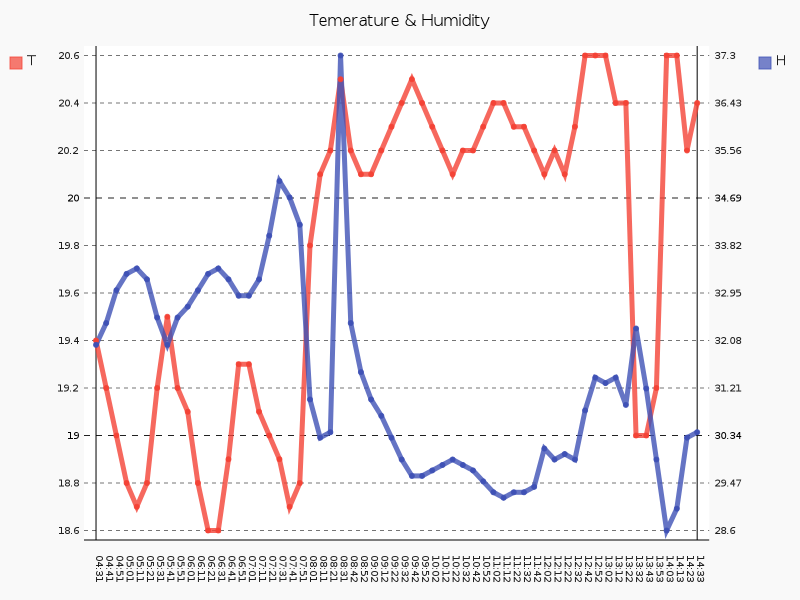
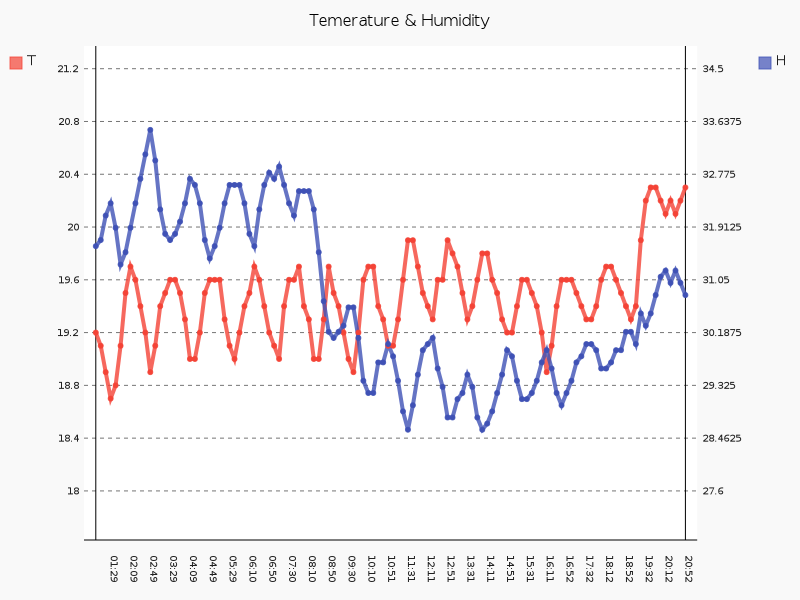
A bit nicer look of graphs

diff --git a/Graph.py b/Graph.py
@@ -17,21 +17,27 @@ def get_data(field_num, field_name, results):
 
         labs = []
         vals = []
+        labels_num = 30
+        labels_skip = results // labels_num
+        count = 0
         for i in j['feeds']:
+            count += 1
+            if count % labels_skip == 0:
                 labs.append(datetime.datetime.strptime(
                     i['created_at'], 
-                    '%Y-%m-%dT%H:%M:%SZ'
+                    '%Y-%m-%dT%H:%M:%S+03:00'
                     ).strftime('%H:%M'))
-                vals.append(float(i[field_name]))
-        del labs[::2]
+            else: 
+                labs.append('')
+            vals.append(round(float(i[field_name]), 1))
         return labs, vals
 
 
 def get_pic(title, labels, data, pic_name):
         line_chart = pygal.Line(
+            range = (min(data)-1, max(data)+1),
             x_label_rotation=90, 
-            #interpolate='lagrange',
-            stroke_style={'width': 5} #, 'linecap': 'round', 'linejoin': 'round'}
+            stroke_style={'width': 4}
             )
         line_chart.title = title
         line_chart.x_labels = labels
@@ -40,20 +46,20 @@ def get_pic(title, labels, data, pic_name):
 
 
 
-def get_temp(usr_id, values_num = 30):
+def get_temp(usr_id, values_num = 60):
     l, v = get_data(1, 'field1', values_num)
     pic_name = "t-%s.png" % usr_id
     full_name = os.path.join(GR_PATH, pic_name)
     get_pic('Temperature', l, v, full_name)
     return full_name
 
-def get_press(usr_id, values_num = 100):
+def get_press(usr_id, values_num = 240):
     l, v = get_data(2, 'field2', values_num)
     pic_name = "img//p_%s.png" % usr_id
     get_pic('Pressure', l, v, pic_name)
     return pic_name
 
-def get_humid(usr_id, values_num = 30):
+def get_humid(usr_id, values_num = 60):
     l, v = get_data(3, 'field3', values_num)
     pic_name = "img//h_%s.png" % usr_id
     get_pic('Humidity', l, v, pic_name)
@@ -61,17 +67,18 @@ def get_humid(usr_id, values_num = 30):
 
 
 def get_temp_hum(usr_id):
-    values_num = 60
+    values_num = 120
     labels, t_vals = get_data(1, 'field1', values_num)
     labels, h_vals = get_data(3, 'field3', values_num)
     pic_name = "t+h_%s.png" % usr_id
     full_name = os.path.join(GR_PATH, pic_name)
 
     chart = pygal.Line(
+        range = (min(t_vals)-1, max(t_vals)+1),
+        secondary_range = (min(h_vals)-1, max(h_vals)+1),
         title='Temerature & Humidity',
         x_label_rotation=90, 
-        #interpolate='lagrange',
-        stroke_style={'width': 5}
+        stroke_style={'width': 4}
         )
     chart.x_labels = labels
     chart.add('T', t_vals)
